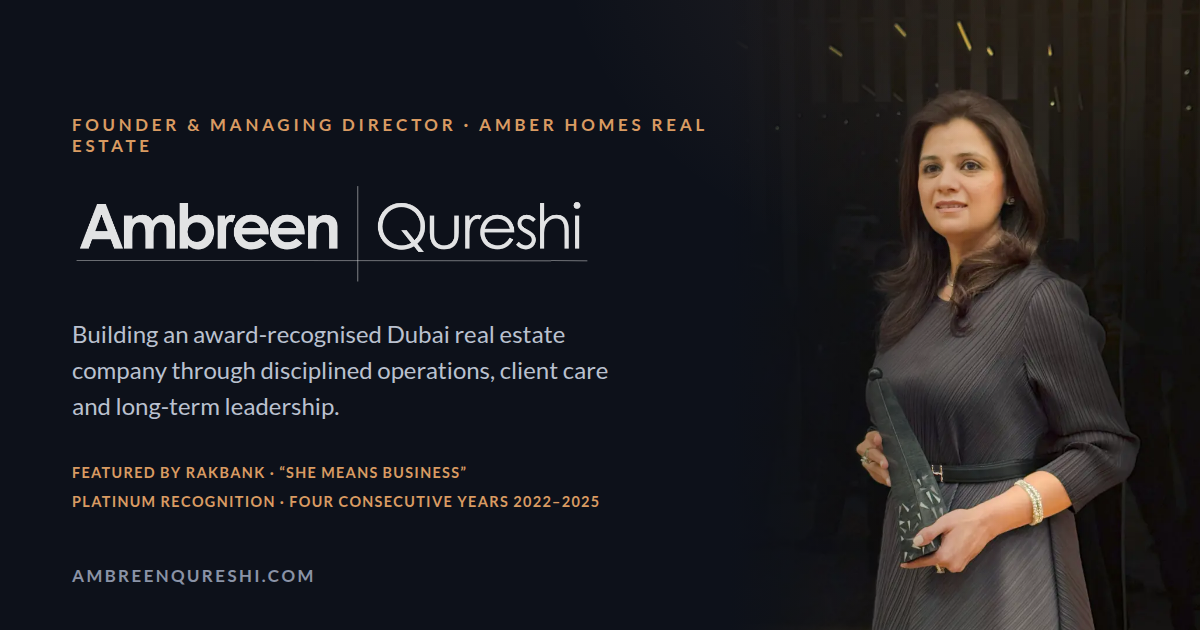
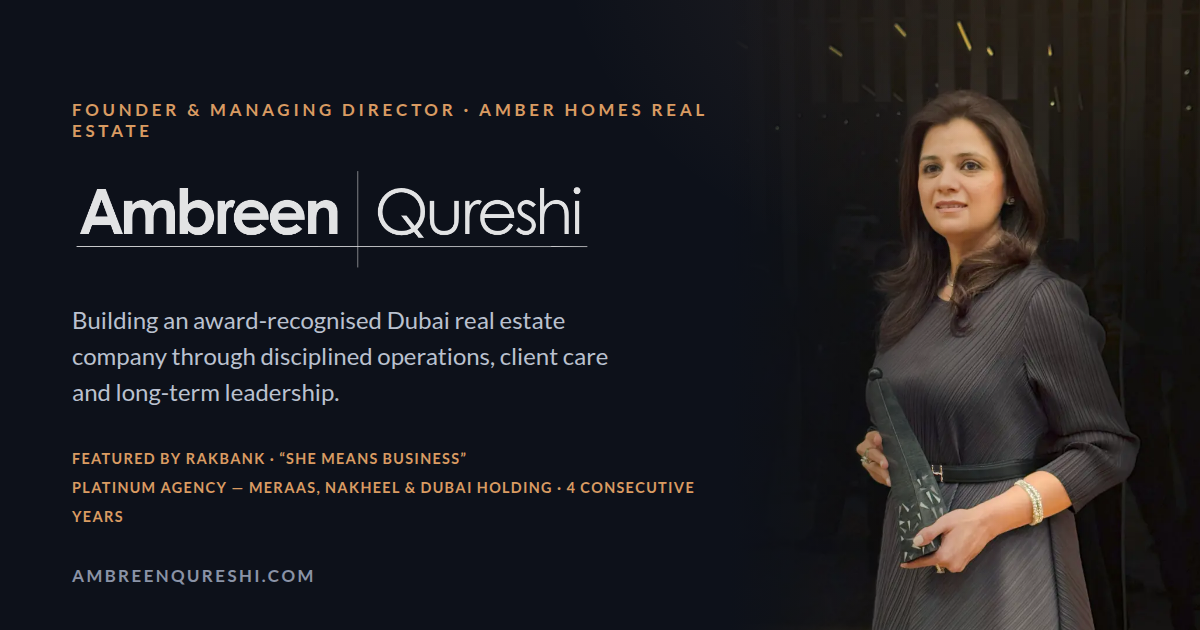
Recognition record: 4 award photos incl. 2022 Dubai Holding Platinum Agents Award; unified 'Platinum Agency for Meraas, Nakheel & Dubai Holding' phrase site-wide; Dubai Holding stature copy
Claude-Session: https://claude.ai/code/session_01SpjkxHXtt2xipH6b9V9g94

diff --git a/site/index.html b/site/index.html
@@ -7,12 +7,12 @@
 <link rel="preload" href="/assets/fonts/lato-latin-400-normal.woff2" as="font" type="font/woff2" crossorigin>
 <link rel="preload" href="/assets/img/ambreen-qureshi-founder-managing-director.webp" as="image" type="image/webp" fetchpriority="high">
 <title>Ambreen Qureshi | Founder &amp; Managing Director, Amber Homes Real Estate</title>
-<meta name="description" content="Ambreen Qureshi is the Founder and Managing Director of Amber Homes Real Estate, a RERA-licensed Dubai brokerage (est. 2017) recognised at Platinum level for four consecutive years, 2022–2025. Featured by RAKBANK in “She Means Business”.">
+<meta name="description" content="Ambreen Qureshi is the Founder and Managing Director of Amber Homes Real Estate, a RERA-licensed Dubai brokerage (est. 2017) Platinum Agency for Meraas, Nakheel &amp; Dubai Holding for four consecutive years (2022–2025). Featured by RAKBANK in “She Means Business”.">
 <link rel="canonical" href="https://ambreenqureshi.com/">
 <meta name="theme-color" content="#0D111A">
 <meta property="og:type" content="profile">
 <meta property="og:title" content="Ambreen Qureshi | Founder &amp; Managing Director, Amber Homes Real Estate">
-<meta property="og:description" content="Ambreen Qureshi is the Founder and Managing Director of Amber Homes Real Estate, a RERA-licensed Dubai brokerage (est. 2017) recognised at Platinum level for four consecutive years, 2022–2025. Featured by RAKBANK in “She Means Business”.">
+<meta property="og:description" content="Ambreen Qureshi is the Founder and Managing Director of Amber Homes Real Estate, a RERA-licensed Dubai brokerage (est. 2017) Platinum Agency for Meraas, Nakheel &amp; Dubai Holding for four consecutive years (2022–2025). Featured by RAKBANK in “She Means Business”.">
 <meta property="og:url" content="https://ambreenqureshi.com/">
 <meta property="og:site_name" content="Ambreen Qureshi">
 <meta property="og:image" content="https://ambreenqureshi.com/assets/og/og-default.png">
@@ -21,7 +21,7 @@
 <meta property="og:image:alt" content="Ambreen Qureshi — Founder &amp; Managing Director, Amber Homes Real Estate, Dubai">
 <meta name="twitter:card" content="summary_large_image">
 <meta name="twitter:title" content="Ambreen Qureshi | Founder &amp; Managing Director, Amber Homes Real Estate">
-<meta name="twitter:description" content="Ambreen Qureshi is the Founder and Managing Director of Amber Homes Real Estate, a RERA-licensed Dubai brokerage (est. 2017) recognised at Platinum level for four consecutive years, 2022–2025. Featured by RAKBANK in “She Means Business”.">
+<meta name="twitter:description" content="Ambreen Qureshi is the Founder and Managing Director of Amber Homes Real Estate, a RERA-licensed Dubai brokerage (est. 2017) Platinum Agency for Meraas, Nakheel &amp; Dubai Holding for four consecutive years (2022–2025). Featured by RAKBANK in “She Means Business”.">
 <meta name="twitter:image" content="https://ambreenqureshi.com/assets/og/og-default.png">
 <link rel="icon" type="image/png" sizes="256x256" href="/assets/img/favicon-256.png">
 <link rel="icon" type="image/png" sizes="64x64" href="/assets/img/favicon-64.png">
@@ -185,7 +185,7 @@
      "name": "What recognition has Amber Homes received?",
      "acceptedAnswer": {
       "@type": "Answer",
-      "text": "Amber Homes received Platinum recognition for four consecutive years from 2022 through 2025 across the Black Onyx Awards associated with Meraas, Nakheel, Dubai Properties and the wider Dubai Holding real-estate ecosystem, plus recognitions from Dubai Holding Real Estate (2021), Nshama (2020) and Binghatti (2026)."
+      "text": "Amber Homes has been a Platinum Agency for Meraas, Nakheel & Dubai Holding for four consecutive years (2022–2025) — from the Dubai Holding Real Estate Platinum Agents Award through the Black Onyx Awards of 2023, 2024 and 2025 — with further recognition from Nshama (2020) and Binghatti (2026). Dubai Holding is Dubai’s largest government-owned developer group, whose ecosystem includes Meraas, Nakheel, Dubai Properties and Jumeirah Group."
      }
     },
     {
@@ -264,7 +264,7 @@
         <h1 class="visually-hidden">Ambreen Qureshi &mdash; Founder &amp; Managing Director of Amber Homes Real Estate, Dubai</h1>
         <img class="hero-logo" src="/assets/img/ambreen-qureshi-logo-white.png" width="997" height="200" alt="Ambreen Qureshi" fetchpriority="high">
         <p class="he-tag">Building an award-recognised Dubai real estate company through disciplined operations, client care and long-term leadership.</p>
-        <p class="he-award">Featured by RAKBANK in “She Means Business” · Amber Homes recognised at Platinum level for four consecutive years, 2022–2025</p>
+        <p class="he-award">Featured by RAKBANK in “She Means Business” · Platinum Agency for Meraas, Nakheel &amp; Dubai Holding — four consecutive years, 2022–2025</p>
         <div>
           <p class="dev-note">Amber Homes — recognised across</p>
           <div class="dev-logos">
@@ -296,11 +296,11 @@
       </div>
       <div class="metric-row mt-metrics">
         <div class="metric"><div class="num">2017</div><div class="cap">Amber Homes founded in Dubai</div></div>
-        <div class="metric"><div class="num">4 Years</div><div class="cap">Consecutive Platinum recognition, 2022–2025</div></div>
+        <div class="metric"><div class="num">4 Years</div><div class="cap">Platinum Agency — Meraas, Nakheel &amp; Dubai Holding (2022–2025)</div></div>
         <div class="metric"><div class="num">USD 1.5B+</div><div class="cap">Cumulative Amber Homes sales — internally reported</div></div>
         <div class="metric"><div class="num">RAKBANK</div><div class="cap">Featured — “She Means Business” female entrepreneur</div></div>
       </div>
-      <p class="note" style="margin-top:1rem">Company sales are an internally reported cumulative figure. Platinum recognition 2022&ndash;2025 relates to the Black Onyx Awards across the Dubai Holding real-estate ecosystem &mdash; <a href="/evidence" style="border-bottom:1px solid var(--hairline-strong)">sources on the evidence page</a>.</p>
+      <p class="note" style="margin-top:1rem">Company sales are an internally reported cumulative figure. Platinum Agency standing 2022&ndash;2025 spans the Dubai Holding Real Estate Platinum Agents Award (2022) and the Black Onyx Awards (2023&ndash;2025) &mdash; <a href="/evidence" style="border-bottom:1px solid var(--hairline-strong)">sources on the evidence page</a>.</p>
     </div>
   </section>
 
@@ -353,8 +353,8 @@
         <li><span class="yr">2017</span><span class="tx">Amber Homes Real Estate founded in Dubai — RERA ORN 18690. The company is named after her: “Amber”, from Ambreen. <a href="/amber-homes">Evidence</a></span></li>
         <li><span class="yr">2019</span><span class="tx">Amber Homes Interiors launched, extending the group beyond brokerage. <a href="/amber-homes">Evidence</a></span></li>
         <li><span class="yr">2020</span><span class="tx">Nshama Town Square appreciation recognition for performance and partnership. <a href="/awards#recognition-2020">Evidence</a></span></li>
-        <li><span class="yr">2021</span><span class="tx">Dubai Holding Real Estate “Platinum — Agents Award” for outstanding sales performance. Amber Holiday Homes founded the same year. <a href="/awards#recognition-2021">Evidence</a></span></li>
-        <li><span class="yr">2022</span><span class="tx">Top Platinum Sales Agency recognition — first year of the four-year consecutive Platinum record. <a href="/awards#recognition-2022">Evidence</a></span></li>
+        <li><span class="yr">2021</span><span class="tx">Amber Holiday Homes founded — particularly Ambreen’s brainchild. The company’s performance across Dubai Holding communities this year is honoured with the Platinum — Agents Award. <a href="/awards#recognition-2022">Evidence</a></span></li>
+        <li><span class="yr">2022</span><span class="tx">The Platinum Agency record begins: Dubai Holding Real Estate’s Platinum — Agents Award opens four consecutive Platinum years for Meraas, Nakheel &amp; Dubai Holding. <a href="/awards#recognition-2022">Evidence</a></span></li>
         <li><span class="yr">2023</span><span class="tx">Platinum recognition at the Black Onyx Awards, presented by Dubai Properties and Meraas. <a href="/awards#recognition-2023">Evidence</a></span></li>
         <li><span class="yr">2024</span><span class="tx">Platinum Certificate of Appreciation — recognised as Platinum Top Performing Partner for 2023–2024. <a href="/awards#recognition-2024">Evidence</a></span></li>
         <li><span class="yr">2025</span><span class="tx">Platinum Award from Meraas and Nakheel; Amber Homes named among the Top 10 Platinum Awardees. <a href="/awards#recognition-2025">Evidence</a></span></li>
@@ -368,10 +368,10 @@
     <div class="container reveal">
       <div class="rail"><b>04</b><span>Company Recognition</span></div>
       <div class="head-split">
-        <h2 class="section-title">Four consecutive years at Platinum level.</h2>
-        <p class="head-note">Company recognitions received by Amber Homes Real Estate &mdash; shown with the actual award photography and exact wording.</p>
+        <h2 class="section-title">Platinum Agency for Meraas, Nakheel &amp; Dubai Holding &mdash; four consecutive years.</h2>
+        <p class="head-note">Dubai Holding is Dubai&rsquo;s largest government-owned developer group &mdash; the ecosystem behind Meraas, Nakheel, Dubai Properties and Jumeirah Group. Platinum standing here is measured on delivered performance.</p>
       </div>
-      <p class="lede">Under the leadership of Founder and Managing Director Ambreen Qureshi and Founder and Managing Partner Saad Waqas, Amber Homes Real Estate received Platinum recognition for four consecutive years from 2022 through 2025 across the Black Onyx Awards associated with Dubai Holding&rsquo;s real-estate ecosystem.</p>
+      <p class="lede">Recognised by Dubai Holding &mdash; Meraas &amp; Nakheel: under the leadership of Founder and Managing Director Ambreen Qureshi and Founder and Managing Partner Saad Waqas, Amber Homes Real Estate has been a Platinum Agency for Meraas, Nakheel &amp; Dubai Holding for four consecutive years (2022&ndash;2025) &mdash; each year shown below with the actual award photography and exact wording.</p>
       <div class="award-grid">
         <a class="award-card" href="/awards#recognition-2025">
           <div class="img-wrap"><img src="/assets/img/awards/amber-homes-black-onyx-platinum-2025.webp" width="1122" height="1402" loading="lazy" alt="The Black Onyx Awards 2025 Platinum Award plaque and trophy presented to Amber Homes Real Estate LLC by Meraas and Nakheel"></div>
@@ -386,8 +386,8 @@
           <div class="aw-body"><span class="aw-year">2023</span><span class="aw-title">Platinum — Black Onyx Awards</span><span class="aw-by">Dubai Properties &amp; Meraas</span></div>
         </a>
         <a class="award-card" href="/awards#recognition-2022">
-          <div class="img-wrap"><div class="img-none">2022<br>Company records</div></div>
-          <div class="aw-body"><span class="aw-year">2022</span><span class="aw-title">Top Platinum Sales Agency recognition</span><span class="aw-by">Black Onyx Awards — Dubai Holding ecosystem</span></div>
+          <div class="img-wrap"><img src="/assets/img/awards/amber-homes-dubai-holding-platinum-agents-2021.webp" width="1122" height="1402" loading="lazy" alt="Dubai Holding Real Estate Platinum Agents Award presented to Amber Homes Real Estate in honour of outstanding sales performance in 2021"></div>
+          <div class="aw-body"><span class="aw-year">2022</span><span class="aw-title">Platinum — Agents Award</span><span class="aw-by">Dubai Holding Real Estate</span></div>
         </a>
       </div>
       <div class="actions"><a class="btn" href="/awards">View the Complete Recognition Record <span class="arr" aria-hidden="true">&rarr;</span></a></div>
@@ -426,7 +426,7 @@
         <div class="amber-mark"><img src="/assets/img/logos/amber-homes-gold.png" alt="Amber Homes Real Estate" width="76" height="76"></div>
         <div>
           <p class="lede" style="margin-top:.2rem;font-size:1.05rem">Founded in Dubai in 2017, Amber Homes Real Estate operates across off-plan, ready and luxury property. As Founder and Managing Director, Ambreen oversees the operational structure supporting the company’s advisors, clients and transactions.</p>
-          <p class="lede" style="margin-top:.2rem;font-size:1.05rem">Amber Homes operates under RERA ORN 18690 and has reported more than USD 1.5 billion in cumulative company sales — an internally reported figure. Its developer relationships and four consecutive years of Platinum recognition reflect the consistency of the wider team and its operating standards.</p>
+          <p class="lede" style="margin-top:.2rem;font-size:1.05rem">Amber Homes operates under RERA ORN 18690 and has reported more than USD 1.5 billion in cumulative company sales — an internally reported figure. Its standing as a Platinum Agency for Meraas, Nakheel &amp; Dubai Holding for four consecutive years reflects the consistency of the wider team and its operating standards.</p>
           <div class="actions">
             <a class="btn" href="https://www.amberhomes.ae/" rel="noopener">Visit Amber Homes <span class="ext" aria-hidden="true">&#8599;</span></a>
             <a class="link-arrow" href="/awards">Explore Company Awards &rarr;</a>
@@ -513,7 +513,7 @@
         <details class="faq"><summary>Who is Ambreen Qureshi?</summary><div class="faq-a"><p>Ambreen Qureshi is the Founder and Managing Director of Amber Homes Real Estate, a RERA-licensed Dubai brokerage founded in 2017 (ORN 18690). She has worked in Dubai real estate since 2011.</p></div></details>
         <details class="faq"><summary>What is Ambreen Qureshi’s role at Amber Homes?</summary><div class="faq-a"><p>She leads the company’s operations, team, processes and client-care standards — the structure behind how enquiries, documentation and transactions are managed as the brokerage grows.</p></div></details>
         <details class="faq"><summary>Is Ambreen Qureshi the founder of Amber Homes?</summary><div class="faq-a"><p>Yes. She is publicly identified as Founder and Managing Director of Amber Homes Real Estate, which she leads together with Founder and Managing Partner Saad Waqas. The company is named after her — “Amber”, from Ambreen.</p></div></details>
-        <details class="faq"><summary>What recognition has Amber Homes received?</summary><div class="faq-a"><p>Amber Homes received Platinum recognition for four consecutive years from 2022 through 2025 across the Black Onyx Awards associated with Meraas, Nakheel, Dubai Properties and the wider Dubai Holding real-estate ecosystem, plus recognitions from Dubai Holding Real Estate (2021), Nshama (2020) and Binghatti (2026).</p></div></details>
+        <details class="faq"><summary>What recognition has Amber Homes received?</summary><div class="faq-a"><p>Amber Homes has been a Platinum Agency for Meraas, Nakheel &amp; Dubai Holding for four consecutive years (2022–2025) — from the Dubai Holding Real Estate Platinum Agents Award through the Black Onyx Awards of 2023, 2024 and 2025 — with further recognition from Nshama (2020) and Binghatti (2026). Dubai Holding is Dubai’s largest government-owned developer group, whose ecosystem includes Meraas, Nakheel, Dubai Properties and Jumeirah Group.</p></div></details>
         <details class="faq"><summary>Was Ambreen Qureshi featured by RAKBANK?</summary><div class="faq-a"><p>Yes. Her entrepreneurial journey was featured through RAKBANK’s “She Means Business” campaign, which highlights female entrepreneurship in the UAE.</p></div></details>
         <details class="faq"><summary>What is Amber Homes’ RERA registration?</summary><div class="faq-a"><p>Amber Homes Real Estate operates under RERA ORN 18690, with its office at Burj Al Salam Tower, Sheikh Zayed Road, Dubai.</p></div></details>
         <details class="faq"><summary>How can someone contact Ambreen Qureshi?</summary><div class="faq-a"><p>Enquiries can be submitted through the contact form on this website, by telephone on +971 4 368 4497, or through the Amber Homes team on WhatsApp. Client engagements are handled through Amber Homes Real Estate.</p></div></details>

diff --git a/site/awards/index.html b/site/awards/index.html
@@ -6,12 +6,12 @@
 <link rel="preload" href="/assets/fonts/lato-latin-300-normal.woff2" as="font" type="font/woff2" crossorigin>
 <link rel="preload" href="/assets/fonts/lato-latin-400-normal.woff2" as="font" type="font/woff2" crossorigin>
 <title>Awards &amp; Recognition — Amber Homes Real Estate | Ambreen Qureshi</title>
-<meta name="description" content="The complete, evidence-led recognition record: Platinum at the Black Onyx Awards for four consecutive years (2022–2025), plus Dubai Holding 2021, Nshama 2020 and Binghatti 2026 — with photographs, exact wording and sources.">
+<meta name="description" content="The complete, evidence-led recognition record: Platinum Agency for Meraas, Nakheel &amp; Dubai Holding for four consecutive years (2022–2025), plus Nshama 2020 and Binghatti 2026 — with photographs, exact wording and sources.">
 <link rel="canonical" href="https://ambreenqureshi.com/awards">
 <meta name="theme-color" content="#0D111A">
 <meta property="og:type" content="website">
 <meta property="og:title" content="Awards &amp; Recognition — Amber Homes Real Estate | Ambreen Qureshi">
-<meta property="og:description" content="The complete, evidence-led recognition record: Platinum at the Black Onyx Awards for four consecutive years (2022–2025), plus Dubai Holding 2021, Nshama 2020 and Binghatti 2026 — with photographs, exact wording and sources.">
+<meta property="og:description" content="The complete, evidence-led recognition record: Platinum Agency for Meraas, Nakheel &amp; Dubai Holding for four consecutive years (2022–2025), plus Nshama 2020 and Binghatti 2026 — with photographs, exact wording and sources.">
 <meta property="og:url" content="https://ambreenqureshi.com/awards">
 <meta property="og:site_name" content="Ambreen Qureshi">
 <meta property="og:image" content="https://ambreenqureshi.com/assets/og/og-awards.png">
@@ -20,7 +20,7 @@
 <meta property="og:image:alt" content="Amber Homes Real Estate — Platinum Award, The Black Onyx Awards 2025">
 <meta name="twitter:card" content="summary_large_image">
 <meta name="twitter:title" content="Awards &amp; Recognition — Amber Homes Real Estate | Ambreen Qureshi">
-<meta name="twitter:description" content="The complete, evidence-led recognition record: Platinum at the Black Onyx Awards for four consecutive years (2022–2025), plus Dubai Holding 2021, Nshama 2020 and Binghatti 2026 — with photographs, exact wording and sources.">
+<meta name="twitter:description" content="The complete, evidence-led recognition record: Platinum Agency for Meraas, Nakheel &amp; Dubai Holding for four consecutive years (2022–2025), plus Nshama 2020 and Binghatti 2026 — with photographs, exact wording and sources.">
 <meta name="twitter:image" content="https://ambreenqureshi.com/assets/og/og-awards.png">
 <link rel="icon" type="image/png" sizes="256x256" href="/assets/img/favicon-256.png">
 <link rel="icon" type="image/png" sizes="64x64" href="/assets/img/favicon-64.png">
@@ -200,7 +200,7 @@
   {
    "@type": "ImageObject",
    "contentUrl": "https://ambreenqureshi.com/assets/img/awards/amber-homes-dubai-holding-platinum-agents-2021.webp",
-   "caption": "Dubai Holding Real Estate — Platinum Agents Award, 2021.",
+   "caption": "Dubai Holding Real Estate — Platinum Agents Award; the certificate honours outstanding sales performance in 2021.",
    "creditText": "Dubai Holding Real Estate",
    "width": 1122,
    "height": 1402
@@ -257,8 +257,8 @@
   <section class="page-header">
     <div class="container">
       <p class="crumb"><a href="/">Home</a> &nbsp;/&nbsp; Awards &amp; Recognition</p>
-      <h1>Four consecutive years at Platinum level — with the receipts.</h1>
-      <p class="lede">Every recognition cited on this site, with the year, the exact wording, the presenting organisation, the photograph and the source. Company awards belong to Amber Homes Real Estate — the team Ambreen Qureshi leads with Saad Waqas.</p>
+      <h1>Platinum Agency for Meraas, Nakheel &amp; Dubai Holding &mdash; with the receipts.</h1>
+      <p class="lede">Four consecutive Platinum years, 2022–2025, recognised by Dubai Holding — Meraas & Nakheel. Every recognition is shown with its year, exact wording, photograph and source. Company awards belong to Amber Homes Real Estate — the team Ambreen Qureshi leads with Saad Waqas.</p>
     </div>
   </section>
 
@@ -266,7 +266,7 @@
     <div class="container">
       <div class="reveal">
         <div class="rail"><b>01</b><span>The four-year Platinum record · 2022–2025</span></div>
-        <p class="lede">Amber Homes Real Estate received Platinum recognition for four consecutive years, 2022 through 2025, across the Black Onyx Awards associated with Meraas, Nakheel, Dubai Properties and the wider Dubai Holding real-estate ecosystem. The Black Onyx Awards honour Dubai&rsquo;s highest-performing brokerages on delivered sales performance.</p>
+        <p class="lede">Amber Homes Real Estate has been a Platinum Agency for Meraas, Nakheel &amp; Dubai Holding for four consecutive years, 2022&ndash;2025 &mdash; from the Dubai Holding Real Estate Platinum Agents Award to the Black Onyx Awards of 2023, 2024 and 2025. Dubai Holding is Dubai&rsquo;s largest government-owned developer group, the ecosystem behind Meraas, Nakheel, Dubai Properties and Jumeirah Group; its recognitions are measured on delivered sales performance.</p>
       </div>
       <div class="evidence-list">
       <article class="ev-row reveal" id="recognition-2025" style="grid-template-columns:1fr;gap:1rem">
@@ -307,11 +307,11 @@
       </article>
       <article class="ev-row reveal" id="recognition-2022" style="grid-template-columns:1fr;gap:1rem">
         <div class="ev-what">
-          <h3 style="font-family:var(--serif);font-size:1.7rem;font-weight:600">2022 &mdash; Top Platinum Sales Agency recognition</h3>
-          <p style="margin-top:.4rem"><strong style="color:var(--text)">Presented by:</strong> Black Onyx Awards — Dubai Holding ecosystem &middot; <strong style="color:var(--text)">Recipient:</strong> Amber Homes Real Estate (company recognition)</p>
-          <p style="margin-top:.6rem">Top Platinum Sales Agency recognition — the first year of the four-year consecutive Platinum record (company records).</p>
+          <h3 style="font-family:var(--serif);font-size:1.7rem;font-weight:600">2022 &mdash; Platinum — Agents Award</h3>
+          <p style="margin-top:.4rem"><strong style="color:var(--text)">Presented by:</strong> Dubai Holding Real Estate &middot; <strong style="color:var(--text)">Recipient:</strong> Amber Homes Real Estate (company recognition)</p>
+          <p style="margin-top:.6rem">Platinum — Agents Award, presented by Dubai Holding Real Estate “in honour of outstanding sales performance in 2021” — the opening year of the four consecutive Platinum years for Meraas, Nakheel &amp; Dubai Holding.</p>
         </div>
-        <p class="ev-pending">Company records — photographic evidence for the 2022 recognition is being added to this page.</p>
+        <figure class="evfig" style="margin-top:.4rem;max-width:560px"><img src="/assets/img/awards/amber-homes-dubai-holding-platinum-agents-2021.webp" width="1122" height="1402" loading="lazy" alt="Dubai Holding Real Estate Platinum Agents Award presented to Amber Homes Real Estate in honour of outstanding sales performance in 2021"><figcaption>Dubai Holding Real Estate — Platinum Agents Award; the certificate honours outstanding sales performance in 2021.</figcaption></figure>
         <div class="ev-proof" style="border-left:0;padding-left:0;border-top:1px solid var(--hairline);padding-top:.9rem">
           <span class="ev-tag">Source</span>
           <a href="https://www.amberhomes.ae/awards" rel="noopener nofollow">Amber Homes awards record <span class="ext" aria-hidden="true">&#8599;</span></a>
@@ -331,18 +331,6 @@
           <p style="margin-top:.6rem">Broker Recognition Award — presented to Amber Homes Real Estate “for outstanding service to clients”, signed by Chairman Muhammad BinGhatti.</p>
         </div>
         <figure class="evfig" style="margin-top:.4rem;max-width:560px"><img src="/assets/img/awards/amber-homes-binghatti-broker-award-2026.webp" width="1086" height="1448" loading="lazy" alt="Binghatti Broker Recognition Award 2026 presented to Amber Homes Real Estate for outstanding service to clients"><figcaption>Binghatti Broker Recognition Award, 2026 — company recognition, Amber Homes Real Estate.</figcaption></figure>
-        <div class="ev-proof" style="border-left:0;padding-left:0;border-top:1px solid var(--hairline);padding-top:.9rem">
-          <span class="ev-tag">Source</span>
-          <a href="https://www.amberhomes.ae/awards" rel="noopener nofollow">Amber Homes awards record <span class="ext" aria-hidden="true">&#8599;</span></a>
-        </div>
-      </article>
-      <article class="ev-row reveal" id="recognition-2021" style="grid-template-columns:1fr;gap:1rem">
-        <div class="ev-what">
-          <h3 style="font-family:var(--serif);font-size:1.7rem;font-weight:600">2021 &mdash; Platinum — Agents Award</h3>
-          <p style="margin-top:.4rem"><strong style="color:var(--text)">Presented by:</strong> Dubai Holding Real Estate &middot; <strong style="color:var(--text)">Recipient:</strong> Amber Homes Real Estate (company recognition)</p>
-          <p style="margin-top:.6rem">Platinum — Agents Award, “in honour of outstanding sales performance in 2021”.</p>
-        </div>
-        <figure class="evfig" style="margin-top:.4rem;max-width:560px"><img src="/assets/img/awards/amber-homes-dubai-holding-platinum-agents-2021.webp" width="1122" height="1402" loading="lazy" alt="Dubai Holding Real Estate Platinum Agents Award 2021 presented to Amber Homes Real Estate for outstanding sales performance"><figcaption>Dubai Holding Real Estate — Platinum Agents Award, 2021.</figcaption></figure>
         <div class="ev-proof" style="border-left:0;padding-left:0;border-top:1px solid var(--hairline);padding-top:.9rem">
           <span class="ev-tag">Source</span>
           <a href="https://www.amberhomes.ae/awards" rel="noopener nofollow">Amber Homes awards record <span class="ext" aria-hidden="true">&#8599;</span></a>
@@ -384,7 +372,7 @@
       <div class="reveal">
         <div class="rail"><b>05</b><span>Evidence &amp; methodology</span></div>
         <div class="prose">
-          <p>Award titles on this page are transcribed from the certificates, plaques and official announcements themselves &mdash; the 2025 plaque, for example, reads: <em>&ldquo;Platinum Award, presented to Amber Homes Real Estate L.L.C, in recognition of exceptional performance, dedication, and outstanding accomplishment in achieving excellence within Dubai&rsquo;s real estate community&rdquo;</em>, presented by Meraas and Nakheel. Where a photograph is not yet published (2022), the entry is labelled as company records and no stronger claim is made. Company recognitions are always attributed to Amber Homes Real Estate, not to any individual.</p>
+          <p>Award titles on this page are transcribed from the certificates, plaques and official announcements themselves &mdash; the 2025 plaque, for example, reads: <em>&ldquo;Platinum Award, presented to Amber Homes Real Estate L.L.C, in recognition of exceptional performance, dedication, and outstanding accomplishment in achieving excellence within Dubai&rsquo;s real estate community&rdquo;</em>, presented by Meraas and Nakheel. The 2022 entry is the Dubai Holding Real Estate Platinum &mdash; Agents Award; its certificate wording honours outstanding sales performance in 2021, and it opens the four-year consecutive Platinum record. Company recognitions are always attributed to Amber Homes Real Estate, not to any individual.</p>
           <p>Corrections: if any wording here differs from the underlying certificate, write to <a href="mailto:ambreen@amberhomes.ae">ambreen@amberhomes.ae</a> and it will be corrected. Full source register on the <a href="/evidence">Evidence page</a>.</p>
         </div>
       </div>
@@ -405,7 +393,7 @@
       
       <h2 class="section-title">Recognition, clarified.</h2>
       <div class="faq-block">
-        <details class="faq"><summary>What recognition has Amber Homes received?</summary><div class="faq-a"><p>Amber Homes received Platinum recognition for four consecutive years from 2022 through 2025 across the Black Onyx Awards associated with Meraas, Nakheel, Dubai Properties and the wider Dubai Holding real-estate ecosystem, plus recognitions from Dubai Holding Real Estate (2021), Nshama (2020) and Binghatti (2026).</p></div></details>
+        <details class="faq"><summary>What recognition has Amber Homes received?</summary><div class="faq-a"><p>Amber Homes has been a Platinum Agency for Meraas, Nakheel &amp; Dubai Holding for four consecutive years (2022–2025) — from the Dubai Holding Real Estate Platinum Agents Award through the Black Onyx Awards of 2023, 2024 and 2025 — with further recognition from Nshama (2020) and Binghatti (2026). Dubai Holding is Dubai’s largest government-owned developer group, whose ecosystem includes Meraas, Nakheel, Dubai Properties and Jumeirah Group.</p></div></details>
         <details class="faq"><summary>Was Ambreen Qureshi featured by RAKBANK?</summary><div class="faq-a"><p>Yes. Her entrepreneurial journey was featured through RAKBANK’s “She Means Business” campaign, which highlights female entrepreneurship in the UAE.</p></div></details>
         <details class="faq"><summary>Are these Ambreen Qureshi’s personal awards?</summary><div class="faq-a"><p>No — and this site does not claim that. The Platinum recognitions and developer awards were received by Amber Homes Real Estate as a company. Ambreen Qureshi leads the company’s operations as Founder and Managing Director; the RAKBANK “She Means Business” feature relates to her personally as an entrepreneur.</p></div></details>
       </div>

diff --git a/site/about/index.html b/site/about/index.html
@@ -224,7 +224,7 @@
           <h2 style="margin-top:0">Biography</h2>
           <p>Ambreen Qureshi is the Founder and Managing Director of Amber Homes Real Estate, a RERA-licensed Dubai brokerage founded in 2017 (ORN 18690). She leads the operational side of the company: its team, internal processes, service standards and client care.</p>
           <p>Her work focuses on the structure behind each client experience &mdash; how enquiries are managed, how documentation is followed through, how teams are trained and how consistent service is maintained as a brokerage grows.</p>
-          <p>Under the joint leadership of Ambreen Qureshi and Founder and Managing Partner <a href="https://saadwaqas.com/" rel="noopener">Saad Waqas</a>, Amber Homes has developed relationships across Dubai&rsquo;s leading real-estate developers and received Platinum recognition for four consecutive years from 2022 through 2025.</p>
+          <p>Under the joint leadership of Ambreen Qureshi and Founder and Managing Partner <a href="https://saadwaqas.com/" rel="noopener">Saad Waqas</a>, Amber Homes has developed relationships across Dubai&rsquo;s leading real-estate developers and been recognised as a Platinum Agency for Meraas, Nakheel &amp; Dubai Holding for four consecutive years (2022&ndash;2025).</p>
           <p>Her entrepreneurial journey has also been featured by RAKBANK through its &ldquo;She Means Business&rdquo; campaign for female entrepreneurs in the UAE.</p>
 
           <h2>Background and company foundation</h2>
@@ -248,7 +248,7 @@
             <tr><th scope="row">Education</th><td>Gold medalist, Master&rsquo;s in Economics &mdash; GC Lahore</td></tr>
             <tr><th scope="row">Company</th><td>Founded 2017 &middot; RERA ORN 18690</td></tr>
             <tr><th scope="row">Broker licence</th><td>DLD BRN 39777</td></tr>
-            <tr><th scope="row">Recognition</th><td>Platinum, 4 consecutive years (2022&ndash;2025) &middot; RAKBANK &ldquo;She Means Business&rdquo; feature</td></tr>
+            <tr><th scope="row">Recognition</th><td>Platinum Agency &mdash; Meraas, Nakheel &amp; Dubai Holding, 4 consecutive years (2022&ndash;2025) &middot; RAKBANK &ldquo;She Means Business&rdquo; feature</td></tr>
             <tr><th scope="row">Group</th><td>Amber Homes Interiors (2019) &middot; Amber Holiday Homes (2021)</td></tr>
           </table>
           <p class="note">Every line above is sourced on the <a href="/evidence" style="border-bottom:1px solid var(--hairline-strong)">Evidence page</a>.</p>
@@ -263,8 +263,8 @@
           <li><span class="yr">2017</span><span class="tx">Amber Homes Real Estate founded in Dubai — RERA ORN 18690. The company is named after her: “Amber”, from Ambreen.</span></li>
           <li><span class="yr">2019</span><span class="tx">Amber Homes Interiors launched, extending the group beyond brokerage.</span></li>
           <li><span class="yr">2020</span><span class="tx">Nshama Town Square appreciation recognition for performance and partnership.</span></li>
-          <li><span class="yr">2021</span><span class="tx">Dubai Holding Real Estate “Platinum — Agents Award” for outstanding sales performance. Amber Holiday Homes founded the same year.</span></li>
-          <li><span class="yr">2022</span><span class="tx">Top Platinum Sales Agency recognition — first year of the four-year consecutive Platinum record.</span></li>
+          <li><span class="yr">2021</span><span class="tx">Amber Holiday Homes founded — particularly Ambreen’s brainchild. The company’s performance across Dubai Holding communities this year is honoured with the Platinum — Agents Award.</span></li>
+          <li><span class="yr">2022</span><span class="tx">The Platinum Agency record begins: Dubai Holding Real Estate’s Platinum — Agents Award opens four consecutive Platinum years for Meraas, Nakheel &amp; Dubai Holding.</span></li>
           <li><span class="yr">2023</span><span class="tx">Platinum recognition at the Black Onyx Awards, presented by Dubai Properties and Meraas.</span></li>
           <li><span class="yr">2024</span><span class="tx">Platinum Certificate of Appreciation — recognised as Platinum Top Performing Partner for 2023–2024.</span></li>
           <li><span class="yr">2025</span><span class="tx">Platinum Award from Meraas and Nakheel; Amber Homes named among the Top 10 Platinum Awardees.</span></li>
@@ -303,7 +303,7 @@
         <details class="faq"><summary>Who is Ambreen Qureshi?</summary><div class="faq-a"><p>Ambreen Qureshi is the Founder and Managing Director of Amber Homes Real Estate, a RERA-licensed Dubai brokerage founded in 2017 (ORN 18690). She has worked in Dubai real estate since 2011.</p></div></details>
         <details class="faq"><summary>What is Ambreen Qureshi’s role at Amber Homes?</summary><div class="faq-a"><p>She leads the company’s operations, team, processes and client-care standards — the structure behind how enquiries, documentation and transactions are managed as the brokerage grows.</p></div></details>
         <details class="faq"><summary>Is Ambreen Qureshi the founder of Amber Homes?</summary><div class="faq-a"><p>Yes. She is publicly identified as Founder and Managing Director of Amber Homes Real Estate, which she leads together with Founder and Managing Partner Saad Waqas. The company is named after her — “Amber”, from Ambreen.</p></div></details>
-        <details class="faq"><summary>What recognition has Amber Homes received?</summary><div class="faq-a"><p>Amber Homes received Platinum recognition for four consecutive years from 2022 through 2025 across the Black Onyx Awards associated with Meraas, Nakheel, Dubai Properties and the wider Dubai Holding real-estate ecosystem, plus recognitions from Dubai Holding Real Estate (2021), Nshama (2020) and Binghatti (2026).</p></div></details>
+        <details class="faq"><summary>What recognition has Amber Homes received?</summary><div class="faq-a"><p>Amber Homes has been a Platinum Agency for Meraas, Nakheel &amp; Dubai Holding for four consecutive years (2022–2025) — from the Dubai Holding Real Estate Platinum Agents Award through the Black Onyx Awards of 2023, 2024 and 2025 — with further recognition from Nshama (2020) and Binghatti (2026). Dubai Holding is Dubai’s largest government-owned developer group, whose ecosystem includes Meraas, Nakheel, Dubai Properties and Jumeirah Group.</p></div></details>
         <details class="faq"><summary>Was Ambreen Qureshi featured by RAKBANK?</summary><div class="faq-a"><p>Yes. Her entrepreneurial journey was featured through RAKBANK’s “She Means Business” campaign, which highlights female entrepreneurship in the UAE.</p></div></details>
       </div>
     </div>

diff --git a/site/leadership/index.html b/site/leadership/index.html
@@ -249,7 +249,7 @@
       </div>
       <div class="reveal">
         <h2>Stewardship: relationships as balance-sheet assets</h2>
-        <p class="answer-first"><strong>In brief:</strong> Four consecutive Platinum years (2022–2025) across Meraas, Nakheel and the Dubai Holding ecosystem reflect stewardship — treating developer and client trust as capital to be grown, never spent.</p>
+        <p class="answer-first"><strong>In brief:</strong> Platinum Agency standing for Meraas, Nakheel &amp; Dubai Holding across four consecutive years (2022–2025) reflects stewardship — treating developer and client trust as capital to be grown, never spent.</p>
         <p>Developer ecosystems measure delivered performance, year after year; there is no way to charm a Platinum record into existence. Ambreen treats those relationships — and every client relationship behind them — as assets on the company’s real balance sheet, to be invested in through clean execution and protected from short-term temptation.</p>
         <p>This is also her definition of reputation: the sum of every commitment the firm has kept when it did not have to. It compounds slowly and, once spent, does not come back at par — which is why long-term reputation outranks short-term visibility in every trade-off the company makes.</p>
       </div>
@@ -278,7 +278,7 @@
       <h2 class="section-title">Leadership questions, answered.</h2>
       <div class="faq-block">
         <details class="faq"><summary>What is Ambreen Qureshi’s role at Amber Homes?</summary><div class="faq-a"><p>She leads the company’s operations, team, processes and client-care standards — the structure behind how enquiries, documentation and transactions are managed as the brokerage grows.</p></div></details>
-        <details class="faq"><summary>What recognition has Amber Homes received?</summary><div class="faq-a"><p>Amber Homes received Platinum recognition for four consecutive years from 2022 through 2025 across the Black Onyx Awards associated with Meraas, Nakheel, Dubai Properties and the wider Dubai Holding real-estate ecosystem, plus recognitions from Dubai Holding Real Estate (2021), Nshama (2020) and Binghatti (2026).</p></div></details>
+        <details class="faq"><summary>What recognition has Amber Homes received?</summary><div class="faq-a"><p>Amber Homes has been a Platinum Agency for Meraas, Nakheel &amp; Dubai Holding for four consecutive years (2022–2025) — from the Dubai Holding Real Estate Platinum Agents Award through the Black Onyx Awards of 2023, 2024 and 2025 — with further recognition from Nshama (2020) and Binghatti (2026). Dubai Holding is Dubai’s largest government-owned developer group, whose ecosystem includes Meraas, Nakheel, Dubai Properties and Jumeirah Group.</p></div></details>
         <details class="faq"><summary>Was Ambreen Qureshi featured by RAKBANK?</summary><div class="faq-a"><p>Yes. Her entrepreneurial journey was featured through RAKBANK’s “She Means Business” campaign, which highlights female entrepreneurship in the UAE.</p></div></details>
       </div>
     </div>

diff --git a/site/evidence/index.html b/site/evidence/index.html
@@ -230,11 +230,11 @@
           <div class="ev-proof"><span class="ev-tag">Company profile + public register</span><a href="https://www.propertyfinder.ae/en/agent/ambreen-qureshi-145563" rel="noopener nofollow">Property Finder — public register listing <span class="ext" aria-hidden="true">&#8599;</span></a></div>
         </div>
         <div class="ev-row reveal">
-          <div class="ev-what"><h2>Four consecutive years of Platinum recognition, 2022–2025</h2><p>Black Onyx Awards recognition across the Dubai Holding real-estate ecosystem (Meraas, Nakheel, Dubai Properties): 2025 Platinum Award (Top 10 Platinum Awardees), 2024 Platinum Certificate of Appreciation (Top Performing Partner 2023–2024), 2023 Platinum (Dubai Properties &amp; Meraas), 2022 Top Platinum Sales Agency (company records). These are company recognitions earned by the Amber Homes team.</p></div>
+          <div class="ev-what"><h2>Platinum Agency for Meraas, Nakheel &amp; Dubai Holding — four consecutive years (2022–2025)</h2><p>Dubai Holding is Dubai’s largest government-owned developer group (Meraas, Nakheel, Dubai Properties, Jumeirah Group). The record: 2022 Platinum — Agents Award from Dubai Holding Real Estate (certificate honours 2021 performance), 2023 Platinum (Dubai Properties &amp; Meraas), 2024 Platinum Certificate of Appreciation (Top Performing Partner 2023–2024), 2025 Platinum Award (Top 10 Platinum Awardees). Company recognitions earned by the Amber Homes team.</p></div>
           <div class="ev-proof"><span class="ev-tag">Award record + press</span><a href="https://www.khaleejtimes.com/kt-network/amber-homes-real-estate-awarded-top-platinum-sales-agency-by-meraas-nakheel-and-dubai-holding-for-the-fourth-year-in-a-row" rel="noopener nofollow">Khaleej Times, 14 Nov 2025 (KT Network) <span class="ext" aria-hidden="true">&#8599;</span></a><a href="https://www.amberhomes.ae/awards" rel="noopener nofollow">Amber Homes — awards page <span class="ext" aria-hidden="true">&#8599;</span></a><a href="/awards" rel="noopener">Award photographs on this site</a></div>
         </div>
         <div class="ev-row reveal">
-          <div class="ev-what"><h2>Additional company recognition — Binghatti 2026, Dubai Holding 2021, Nshama 2020</h2><p>Binghatti Broker Recognition Award (2026, “for outstanding service to clients”); Dubai Holding Real Estate Platinum — Agents Award (2021); Nshama Town Square Appreciation Award (2020). Verified against award photographs held by the company.</p></div>
+          <div class="ev-what"><h2>Additional company recognition — Binghatti 2026, Nshama 2020</h2><p>Binghatti Broker Recognition Award (2026, “for outstanding service to clients”); Nshama Town Square Appreciation Award (2020). Verified against award photographs held by the company.</p></div>
           <div class="ev-proof"><span class="ev-tag">Award record</span><a href="/awards" rel="noopener">Photographs and wording — /awards</a></div>
         </div>
         <div class="ev-row reveal">

diff --git a/site/amber-homes/index.html b/site/amber-homes/index.html
@@ -219,7 +219,7 @@
       <div class="grid2" style="align-items:start">
         <div class="prose reveal">
           <p>As Founder and Managing Director, Ambreen oversees the operational structure supporting the company&rsquo;s advisors, clients and transactions &mdash; alongside Founder and Managing Partner <a href="https://saadwaqas.com/" rel="noopener">Saad Waqas</a>, who leads the company&rsquo;s investment advisory and market strategy.</p>
-          <p>Amber Homes operates under RERA ORN 18690 from Burj Al Salam Tower on Sheikh Zayed Road, and has reported more than USD&nbsp;1.5 billion in cumulative company sales &mdash; an internally reported figure. Its developer relationships and four consecutive years of Platinum recognition (2022&ndash;2025) reflect the consistency of the wider team and its operating standards.</p>
+          <p>Amber Homes operates under RERA ORN 18690 from Burj Al Salam Tower on Sheikh Zayed Road, and has reported more than USD&nbsp;1.5 billion in cumulative company sales &mdash; an internally reported figure. Its standing as a Platinum Agency for Meraas, Nakheel &amp; Dubai Holding for four consecutive years (2022&ndash;2025) reflects the consistency of the wider team and its operating standards &mdash; recognition from Dubai Holding, Dubai&rsquo;s largest government-owned developer group.</p>
           <h2>The wider group</h2>
           <p><strong>Amber Homes Interiors</strong> (2019) extends the company into design and fit-out, and <strong>Amber Holiday Homes</strong> (2021) &mdash; particularly Ambreen&rsquo;s brainchild &mdash; operates short-stay residences in Dubai. Each business runs on the same operating discipline as the brokerage: defined processes, measured service and named ownership of every open item.</p>
           <p class="note">This page is a summary. Property enquiries, listings and company detail live on the corporate site.</p>
@@ -236,7 +236,7 @@
             <tr><th scope="row">Office</th><td>Office 2102, Burj Al Salam Tower, Sheikh Zayed Road, Dubai, UAE</td></tr>
             <tr><th scope="row">Segments</th><td>Off-plan &middot; ready &middot; luxury residential</td></tr>
             <tr><th scope="row">Cumulative sales</th><td>USD 1.5B+ (internally reported)</td></tr>
-            <tr><th scope="row">Recognition</th><td>Platinum, 4 consecutive years (2022&ndash;2025); Dubai Holding 2021; Nshama 2020; Binghatti 2026</td></tr>
+            <tr><th scope="row">Recognition</th><td>Platinum Agency for Meraas, Nakheel &amp; Dubai Holding &mdash; 4 consecutive years (2022&ndash;2025); Nshama 2020; Binghatti 2026</td></tr>
             <tr><th scope="row">Leadership</th><td>Ambreen Qureshi &middot; Founder &amp; Managing Director<br>Saad Waqas &middot; Founder &amp; Managing Partner</td></tr>
             <tr><th scope="row">Sister companies</th><td>Amber Homes Interiors (2019) &middot; Amber Holiday Homes (2021)</td></tr>
           </table>

diff --git a/tools/og.html b/tools/og.html
@@ -22,7 +22,7 @@ h1{font-family:'Lato',sans-serif;font-weight:300;font-size:88px;line-height:1.04
   <div class="eyebrow">Founder &amp; Managing Director · Amber Homes Real Estate</div>
   <img src="../site/assets/img/ambreen-qureshi-logo-white.png" style="width:520px;height:auto;margin-bottom:30px" alt="">
   <div class="tag">Building an award-recognised Dubai real estate company through disciplined operations, client care and long-term leadership.</div>
-  <div class="rec">Featured by RAKBANK · “She Means Business”<br>Platinum recognition · Four consecutive years 2022–2025</div>
+  <div class="rec">Featured by RAKBANK · “She Means Business”<br>Platinum Agency — Meraas, Nakheel &amp; Dubai Holding · 4 consecutive years</div>
 </div>
 <div class="dom">AMBREENQURESHI.COM</div>
 <div class="right"><img src="../site/assets/img/ambreen-qureshi-founder-managing-director.webp"></div>
